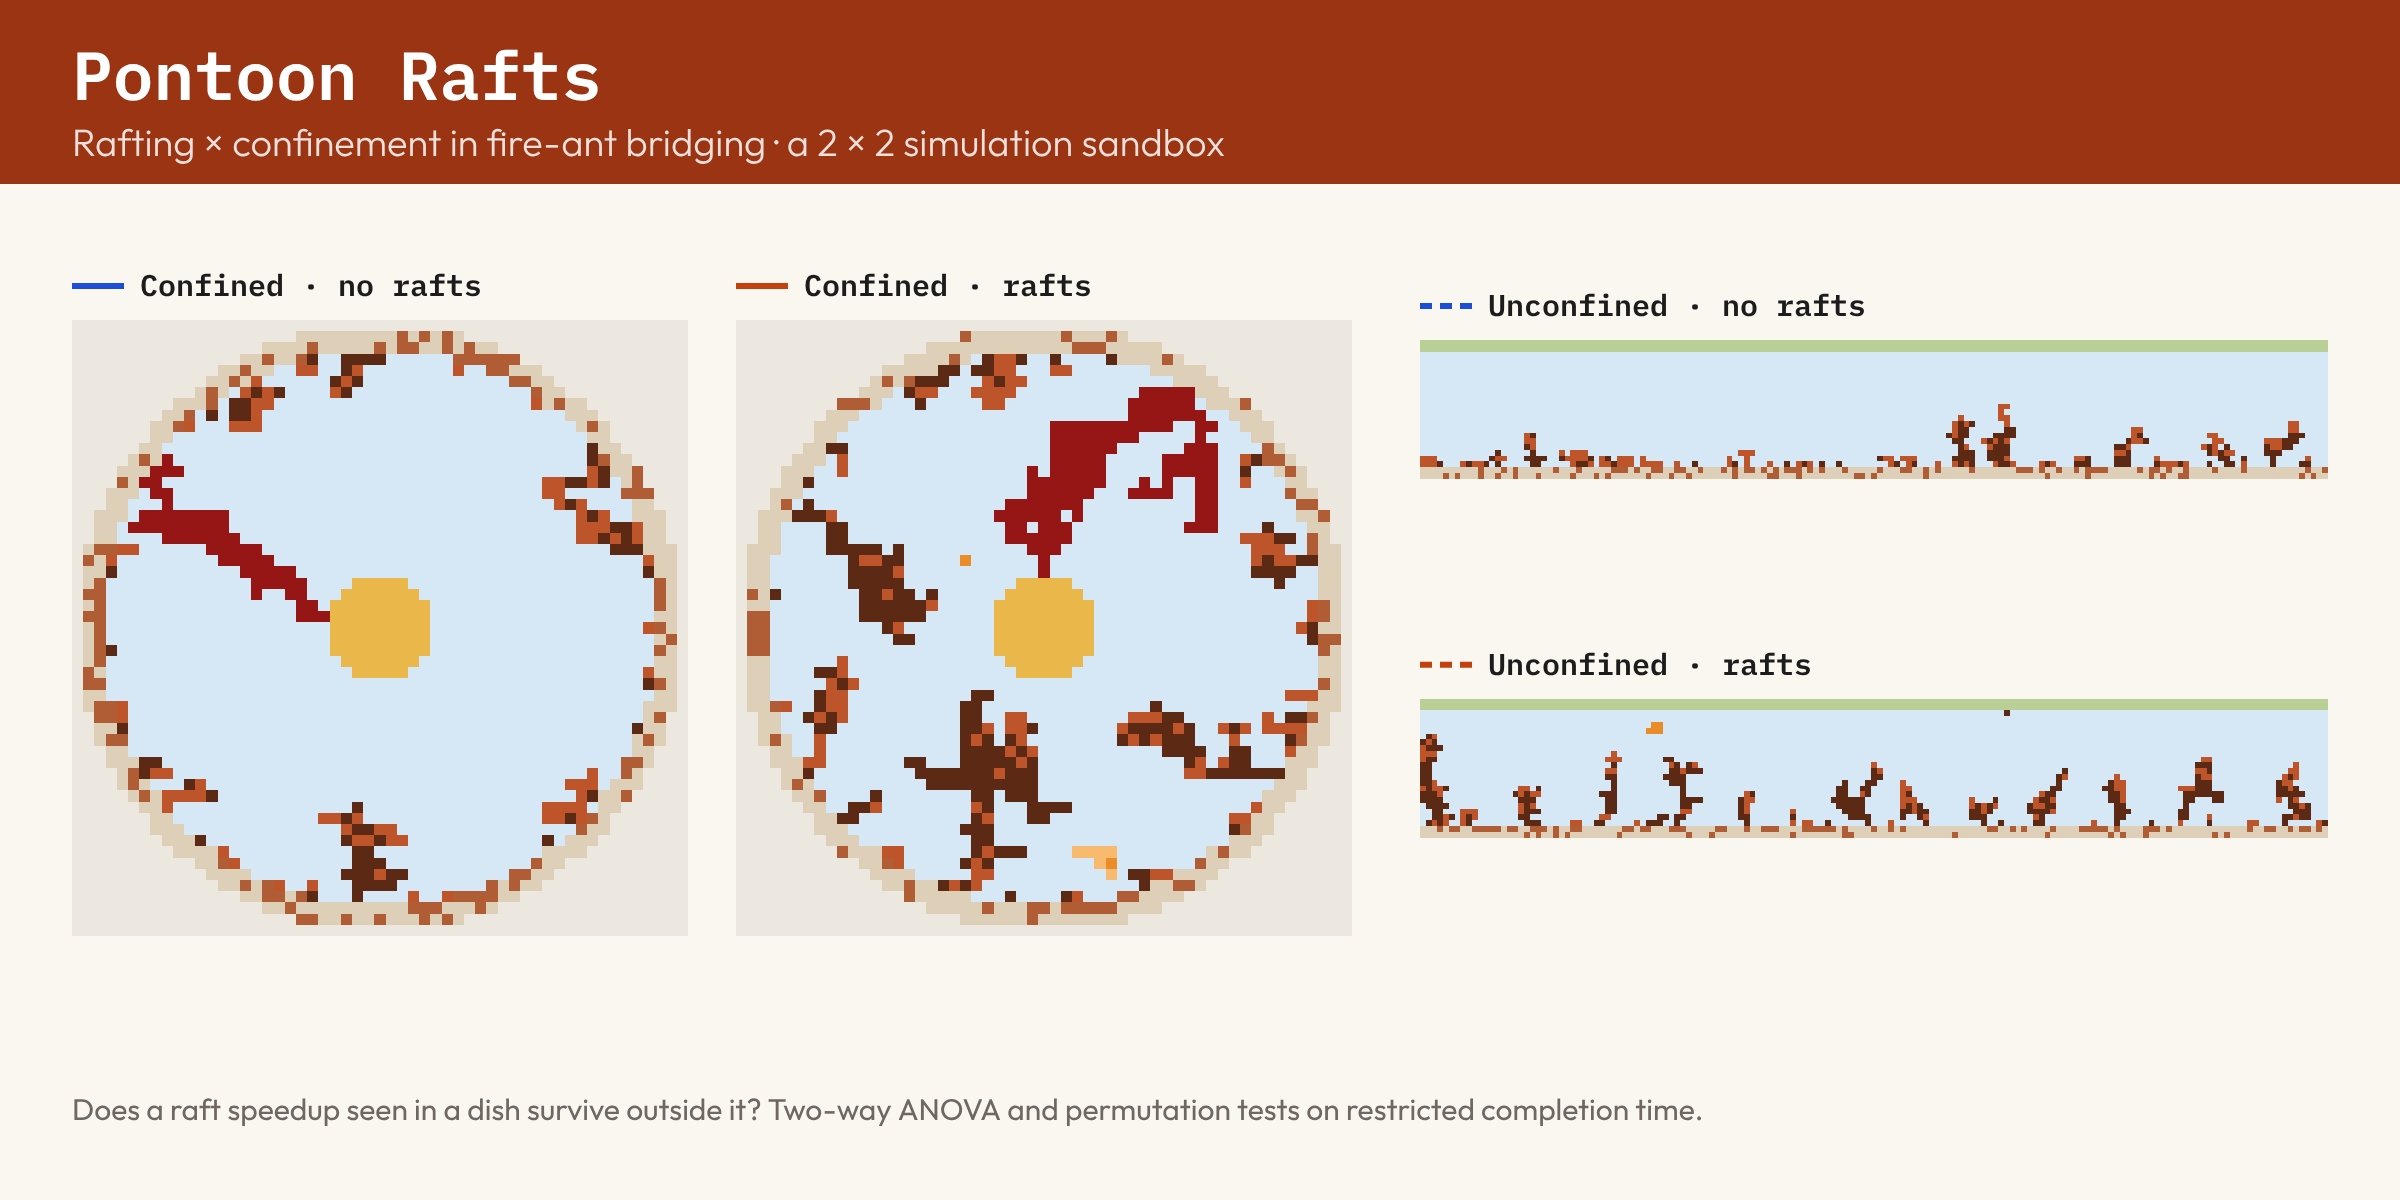
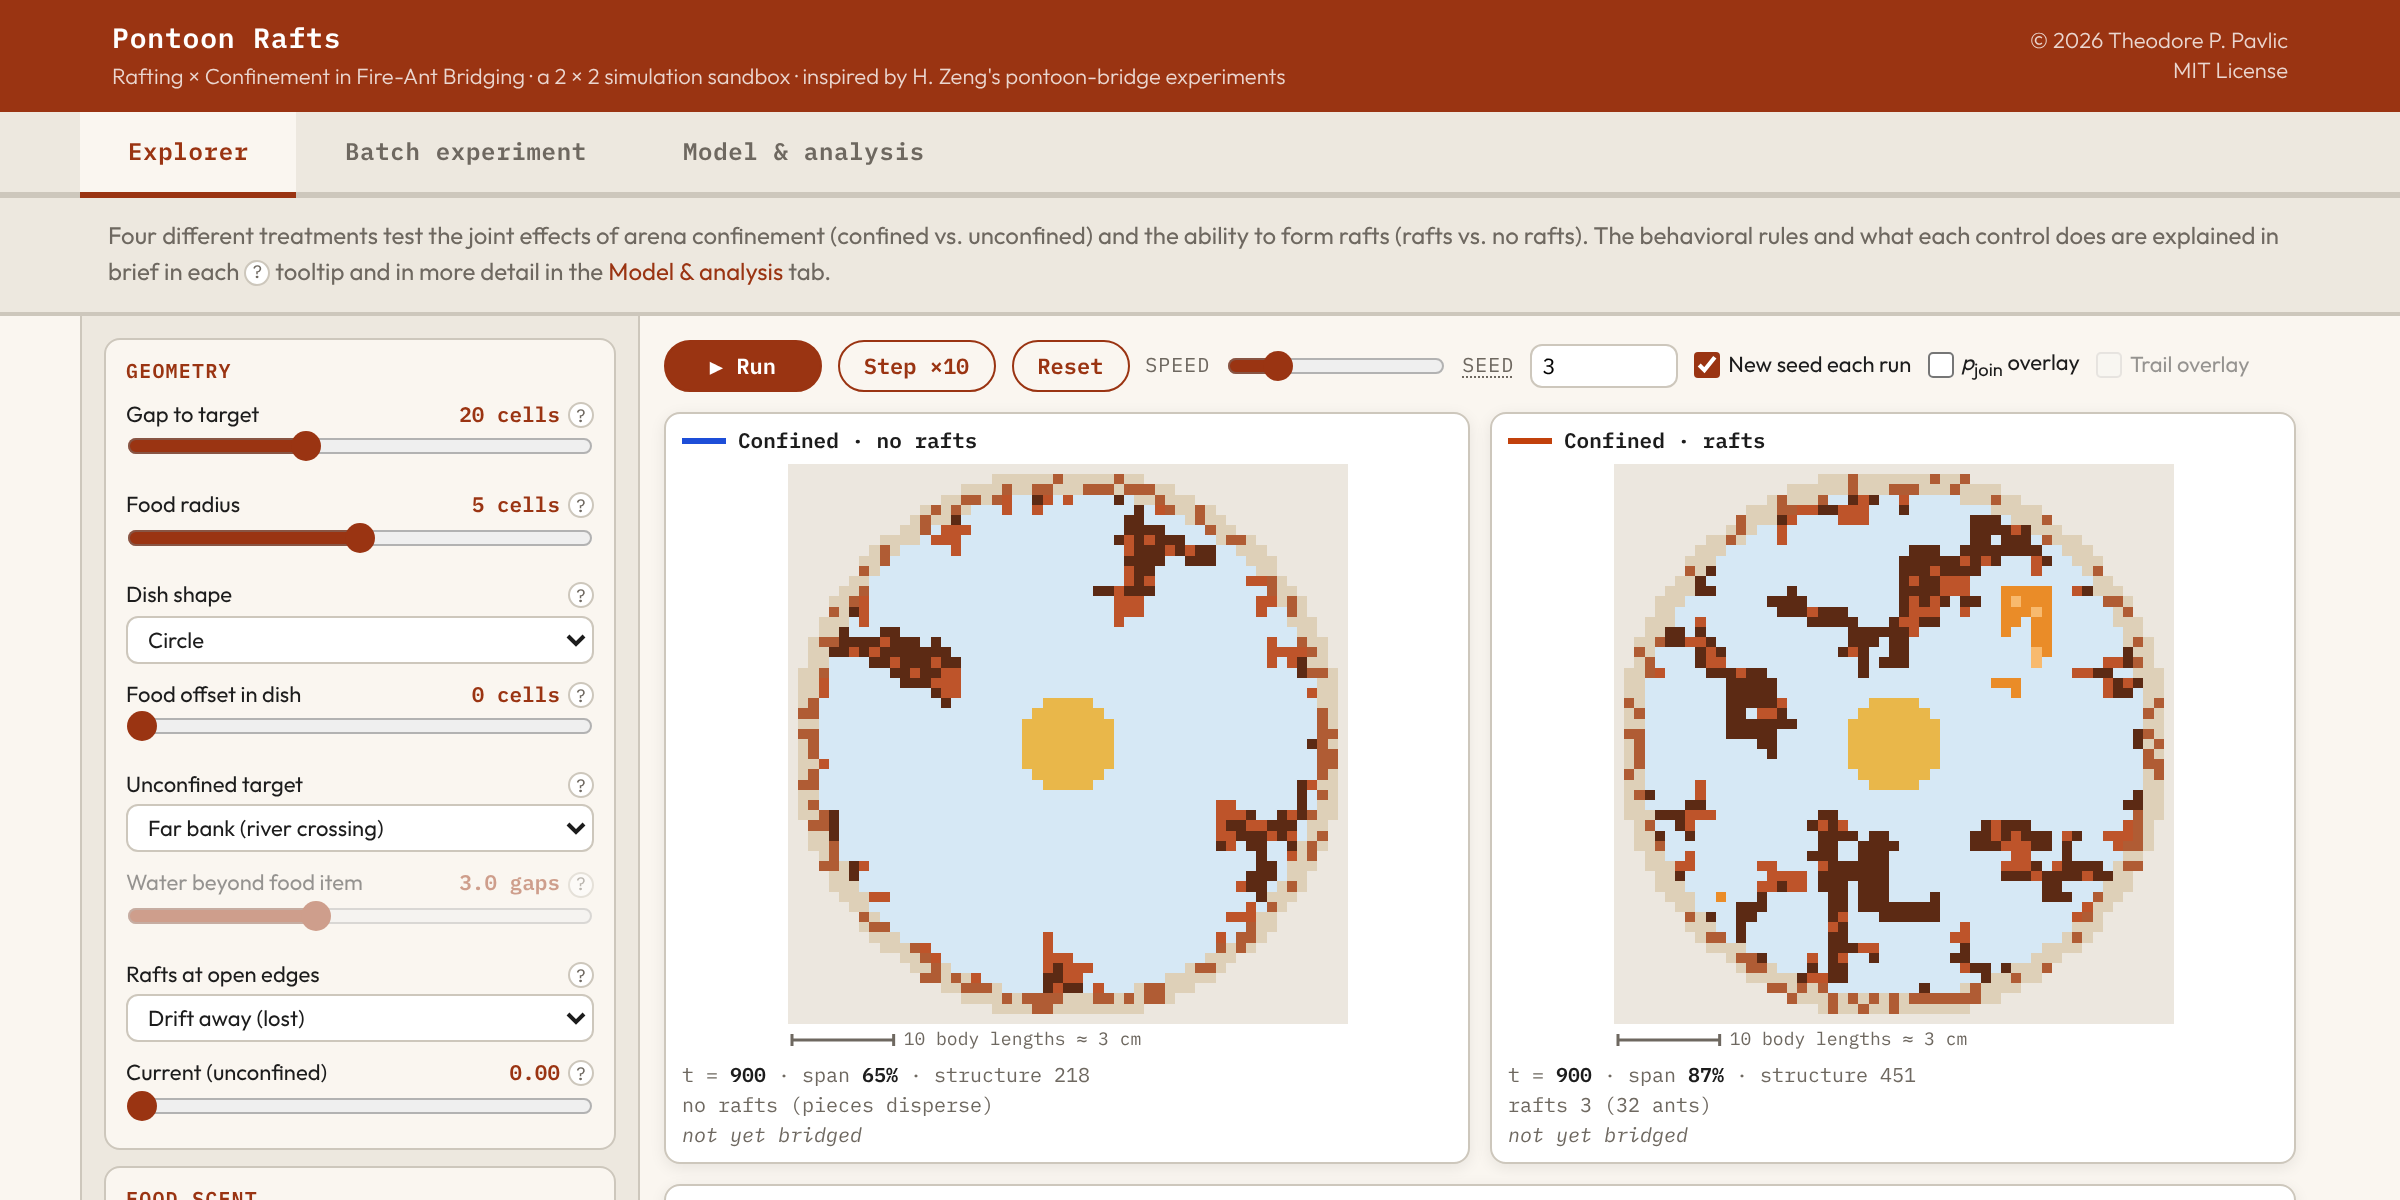
pontoon: Grey out the trail overlay without trail, and refresh the preview
No trail is laid unless one of the two recruitment switches is on, so
the Trail overlay checkbox is now disabled and greyed out (with a tooltip
saying why) until one is; the switches themselves stay independent, as
"trail raises joining" works without recruitment along the trail.

Regenerate the 2400x1200 preview as a screenshot of the Explorer mid-run,
showing the current controls: the full Geometry group, the toolbar with
both overlays, and the two dishes.

diff --git a/pontoon_rafts/pontoon_rafts.html b/pontoon_rafts/pontoon_rafts.html
@@ -137,6 +137,7 @@ a:hover{text-decoration:underline}
 .toolbar label{font-size:11px;display:flex;align-items:center;gap:4px;cursor:pointer}
 /* the two overlay checkboxes wrap together, never one without the other */
 .tb-grp{display:flex;align-items:center;gap:8px;flex-wrap:nowrap}
+.toolbar label.off{opacity:.45;cursor:default}
 .chk{accent-color:var(--rust)}
 /* a seed label with a previous seed to restore: its tooltip names it, and a click restores it */
 .has-prev{text-decoration:underline dotted;text-underline-offset:2px;cursor:pointer}
@@ -281,7 +282,7 @@ footer:not(#back-link-footer) div{max-width:1120px;margin:0 auto;text-align:cent
         <label title="Draw a fresh random seed whenever a run is restarted"><input type="checkbox" class="chk" id="autoseed" checked> New seed each run</label>
         <span class="tb-grp">
           <label title="Shade each water cell by its join probability p_join(d) = min{1, p₀ · exp[(gap − d)/λ]} on a fixed log scale from 0.001 to 1; a stronger scent (smaller λ) or a larger p₀ shows as more and deeper color"><input type="checkbox" class="chk" id="scent"> <span><i>p</i><sub>join</sub> overlay</span></label>
-          <label title="Tint the shore and structure by trail level (recruitment only)"><input type="checkbox" class="chk" id="trailov"> Trail overlay</label>
+          <label id="trailov-lbl" title="Tint the shore and structure by trail level (recruitment only)"><input type="checkbox" class="chk" id="trailov"> Trail overlay</label>
         </span>
       </div>
       <div id="arenas"></div>
@@ -899,6 +900,14 @@ function buildPanel() {
   syncDim();
 }
 function syncDim() {
+  // No trail is laid unless one of the recruitment switches is on, so the trail overlay waits for one
+  const trailOff = !pvals.follow && !pvals.trailJoin, tov = document.getElementById('trailov');
+  tov.disabled = trailOff;
+  document.getElementById('trailov-lbl').classList.toggle('off', trailOff);
+  document.getElementById('trailov-lbl').title = trailOff
+    ? 'Turn on a recruitment switch in the side panel to lay trail'
+    : 'Tint the shore and structure by trail level';
+  const key = document.getElementById('trail-key'); if (key) key.hidden = trailOff || !tov.checked;
   PARAMS.forEach(p => {
     const off = p.onlyPoint ? pvals.target !== 'point' : p.needs ? !p.needs() : false;
     if (p.k) document.querySelector('.prm[data-k="' + p.k + '"]').classList.toggle('dim', off);
